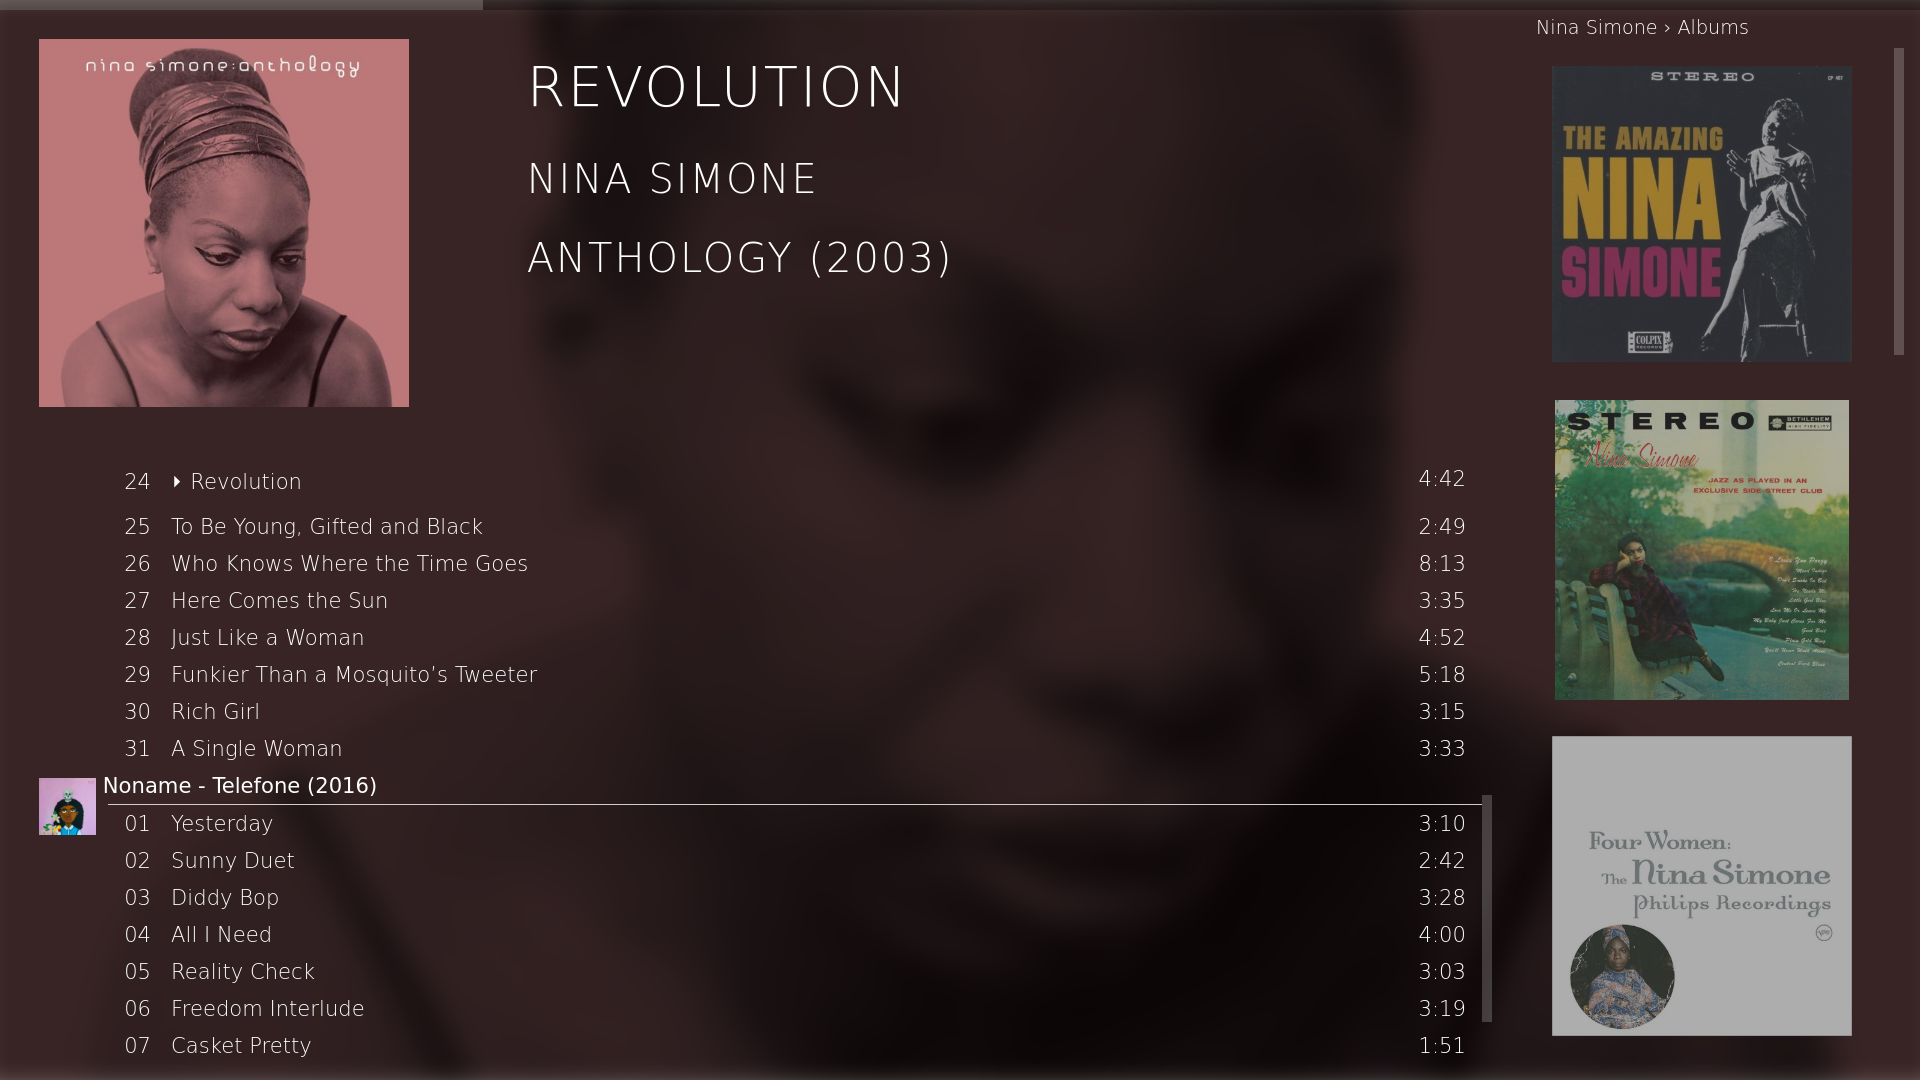
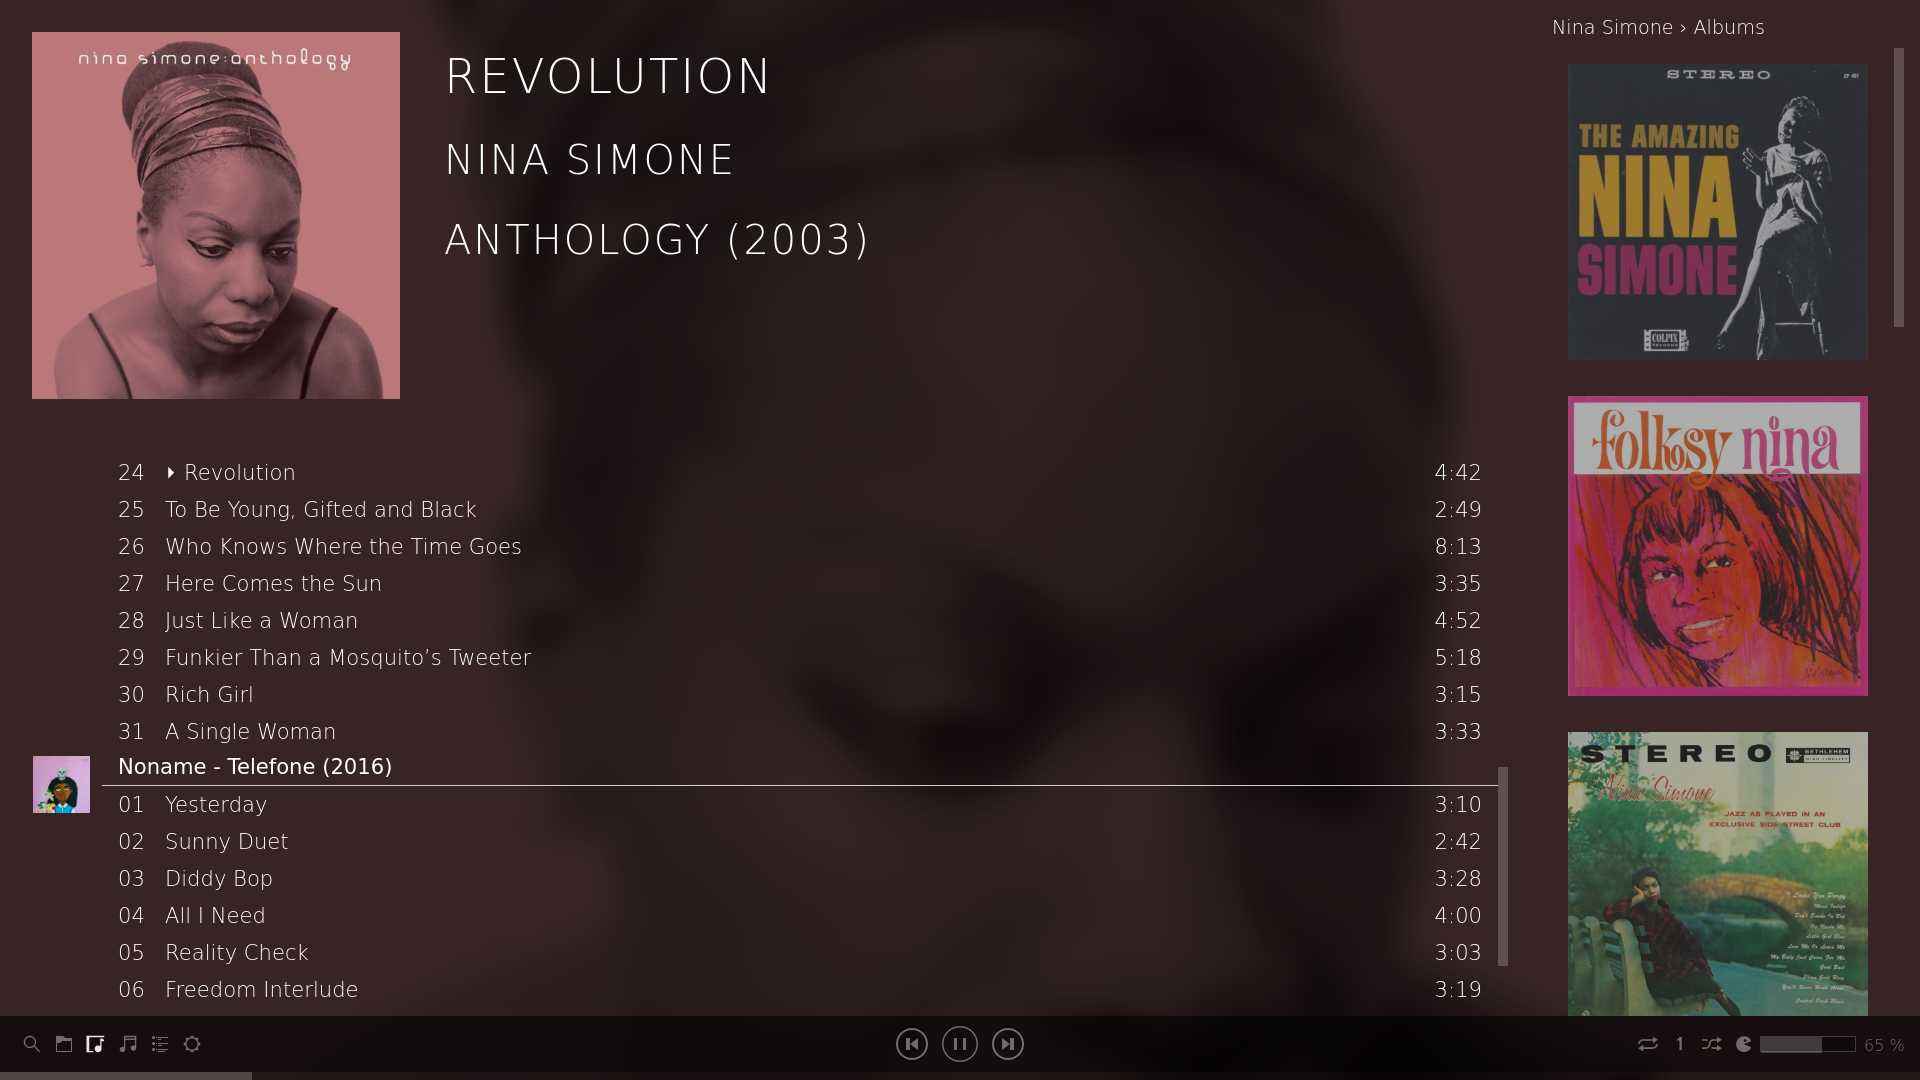
select and play songs in queue

diff --git a/src/client/app/shared/websocket/mpd.service.ts b/src/client/app/shared/websocket/mpd.service.ts
@@ -103,6 +103,7 @@ export class MpdService {
     | 'toggleRandom'
     | 'toggleSingle'
     | 'toggleRepeat'
+    | 'playTrack'
     ,
     args?: any[]) {
     if (!this.ws.closed) {
@@ -119,33 +120,36 @@ export class MpdService {
         case 'prevSong':
           this.ws.next('MPD_API_SET_PREV');
           break;
-          case 'addTrack':
-            this.ws.next('MPD_API_ADD_TRACK,' + args[0]);
-            break;
-          case 'addPlayTrack':
-            this.ws.next('MPD_API_ADD_PLAY_TRACK,' + args[0]);
-            break;
-          case 'addArtistAlbum':
-            this.ws.next('MPD_API_ADD_ARTIST_ALBUM,' + args[0] + ',' + args[1] + ',' + args[2]);
-            break;
-          case 'setVolume':
-            this.ws.next('MPD_API_SET_VOLUME,' + args[0]);
-            break;
-          case 'setSeek':
-            this.ws.next('MPD_API_SET_SEEK,' + args[0] + ',' + args[1]);
-            break;
-          case 'toggleConsume':
-            this.ws.next('MPD_API_TOGGLE_CONSUME,' + args[0]);
-            break;
-          case 'toggleRandom':
-            this.ws.next('MPD_API_TOGGLE_RANDOM,' + args[0]);
-            break;
-          case 'toggleSingle':
-            this.ws.next('MPD_API_TOGGLE_SINGLE,' + args[0]);
-            break;
-          case 'toggleRepeat':
-            this.ws.next('MPD_API_TOGGLE_REPEAT,' + args[0]);
-            break;
+        case 'addTrack':
+          this.ws.next('MPD_API_ADD_TRACK,' + args[0]);
+          break;
+        case 'addPlayTrack':
+          this.ws.next('MPD_API_ADD_PLAY_TRACK,' + args[0]);
+          break;
+        case 'addArtistAlbum':
+          this.ws.next('MPD_API_ADD_ARTIST_ALBUM,' + args[0] + ',' + args[1] + ',' + args[2]);
+          break;
+        case 'setVolume':
+          this.ws.next('MPD_API_SET_VOLUME,' + args[0]);
+          break;
+        case 'setSeek':
+          this.ws.next('MPD_API_SET_SEEK,' + args[0] + ',' + args[1]);
+          break;
+        case 'toggleConsume':
+          this.ws.next('MPD_API_TOGGLE_CONSUME,' + args[0]);
+          break;
+        case 'toggleRandom':
+          this.ws.next('MPD_API_TOGGLE_RANDOM,' + args[0]);
+          break;
+        case 'toggleSingle':
+          this.ws.next('MPD_API_TOGGLE_SINGLE,' + args[0]);
+          break;
+        case 'toggleRepeat':
+          this.ws.next('MPD_API_TOGGLE_REPEAT,' + args[0]);
+          break;
+        case 'playTrack':
+          this.ws.next('MPD_API_PLAY_TRACK,' + args[0]);
+          break;
         default:
           console.log('command not found:', command);
       }

diff --git a/src/client/app/shared/queue/queue.component.ts b/src/client/app/shared/queue/queue.component.ts
@@ -7,6 +7,7 @@ import { Song } from '../models/song.model';
 
 import { QueueService } from '../state/queue.service';
 import { CurrentSongService } from '../state/current-song.service';
+import { MpdService } from '../websocket/mpd.service';
 
 /**
  * This class represents the navigation bar component.
@@ -22,10 +23,11 @@ export class QueueComponent implements OnInit {
   queue: Song[];
   currentSong: Song;
   queueChanged = false;
+  selected: {id: number, pos: number} = {id: null, pos: null};
 
   private _song: ReplaySubject<Song>;
 
-  constructor(private _queue: QueueService, private _currentSong: CurrentSongService) {
+  constructor(private _queue: QueueService, private _currentSong: CurrentSongService, private _mpd: MpdService) {
     this._queue.getQueue().subscribe((songs: Song[]) => {
         this.queue = songs;
         this.queueChanged = true;
@@ -48,6 +50,20 @@ export class QueueComponent implements OnInit {
     setTimeout(() => {
       this.queueChanged = true;
     }, 900);
+  }
+
+  playTrack(song: Song) {
+    this._mpd.sendCommand('playTrack', [song.id]);
+  }
+
+  selectTrack(song: Song) {
+    if (this.selected.pos && this.selected.id === song.id && this.selected.pos === song.pos) {
+      this.selected.pos = null;
+      this.selected.id = null;
+    } else {
+      this.selected.pos = song.pos;
+      this.selected.id = song.id;
+    }
   }
 
   scroll(el: any) {

diff --git a/src/client/app/shared/queue/queue.component.html b/src/client/app/shared/queue/queue.component.html
@@ -1,11 +1,12 @@
-<div *ngFor="let song of queue; let i = index" class="song-album-row">
+<div *ngFor="let song of queue; let i = index" class="song-album-row" (dblclick)="playTrack(song)" (click)="selectTrack(song)">
   <div *ngIf="currentSong && song.pos === currentSong.pos" #target>{{ scroll(target) }}</div>
   <div *ngIf="i < 1 || (song.album !== queue[i-1].album || song.album_artist !== queue[i-1].album_artist)" class="album-row">
     <!-- <img [src]="song.file | getCoverUrl" onError="this.src='assets/placeholder.jpg';"> -->
     <sd-cover class="cover" [song]="song" [showControls]="false"></sd-cover>
     {{ song.album_artist }} - {{ song.album }} {{ song.date | year }}
   </div>
-  <div class="song-row" [ngClass]="{active: currentSong && song.pos === currentSong.pos}">
+  <div class="song-row" [ngClass]="{active: currentSong && song.pos === currentSong.pos, 'selected': song.pos === selected?.pos &&
+   song.id === selected?.id}">
     {{ str_pad_left(song.track, '0', 2) }} &nbsp;  <div class="play-indicator" *ngIf="currentSong && song.pos === currentSong.pos">&#9205;&nbsp;</div>{{ song.title }}
     <span class="song-duration">{{ song.duration | formatDuration }}</span>
   </div>

diff --git a/src/client/app/app.module.ts b/src/client/app/app.module.ts
@@ -11,12 +11,13 @@ import { SearchModule } from './search/search.module';
 import { HomeModule } from './home/home.module';
 import { LibraryModule } from './library/library.module';
 import { PlaylistsModule } from './playlists/playlists.module';
+import { SettingsModule } from './settings/settings.module';
 import { SharedModule } from './shared/shared.module';
 
 
 @NgModule({
   imports: [BrowserModule, HttpClientModule, AppRoutingModule, AboutModule, BrowseModule, SearchModule, HomeModule, LibraryModule,
-     PlaylistsModule, SharedModule.forRoot()],
+     PlaylistsModule, SettingsModule, SharedModule.forRoot()],
   declarations: [AppComponent],
   providers: [{
     provide: APP_BASE_HREF,

diff --git a/src/client/app/shared/controls-bar/controls-bar.component.html b/src/client/app/shared/controls-bar/controls-bar.component.html
@@ -14,6 +14,8 @@
       routerLink="/library"  routerLinkActive="selected"></div>
     <div class="btn btn-smaller" [ngClass]="{'selected': state?.repeat === 1}" inlineSVG="assets/svg/playlist.svg"
       routerLink="/playlists"  routerLinkActive="selected"></div>
+    <div class="btn btn-smaller" [ngClass]="{'selected': state?.repeat === 1}" inlineSVG="assets/svg/settings.svg"
+      routerLink="/settings"  routerLinkActive="selected"></div>
   </div>
   <div class="controls-center">
       <div inlineSVG="assets/svg/media-skip-backward.svg" (click)="prevSong()"></div>

diff --git a/src/client/app/shared/controls-bar/controls-bar.component.css b/src/client/app/shared/controls-bar/controls-bar.component.css
@@ -28,12 +28,13 @@
   position: fixed !important;
   margin: 0 !important;
   z-index: 2;
-  background-color: rgba(0, 0, 0, 0.3);
+  background-color: rgba(0, 0, 0, 0.6);
   display: grid;
   grid-template-columns: 1fr 9em 1fr;
   /*background-color: red;*/
   width: 100%;
-  height: 3em;
+  height: 3.5em;
+  padding-top: 0.25em;
 }
 
 .controls-center {
@@ -55,6 +56,10 @@
   height: 2em;
   fill: white;
   fill-opacity: 0.4;
+}
+
+.btn:focus {
+  outline: none;
 }
 
 .controls-left > div:hover, .controls-center > div:hover, .controls-right > div:hover {

diff --git a/src/client/app/settings/settings.component.css b/src/client/app/settings/settings.component.css
@@ -1,0 +1,25 @@
+:host {
+  display: block;
+  overflow: hidden;
+}
+
+h2 {
+  font-size: 20px;
+  font-weight: 500;
+  letter-spacing: 0.005em;
+  margin-bottom: 0;
+  margin-top: 0.83em;
+  color: white;
+}
+
+.wrapper {
+  position: absolute;
+  height: 100%;
+  width: 100%;
+  overflow: hidden;
+  top: 0;
+  display: grid;
+  grid-template-columns: 1fr 1fr 1fr;
+  grid-template-rows: 1fr 1fr;
+  grid-gap: 12px;
+}

diff --git a/src/client/app/settings/settings.module.ts b/src/client/app/settings/settings.module.ts
@@ -1,0 +1,11 @@
+import { NgModule } from '@angular/core';
+import { CommonModule } from '@angular/common';
+import { SettingsComponent } from './settings.component';
+import { SettingsRoutingModule } from './settings-routing.module';
+
+@NgModule({
+  imports: [CommonModule, SettingsRoutingModule],
+  declarations: [SettingsComponent],
+  exports: [SettingsComponent]
+})
+export class SettingsModule { }

diff --git a/src/client/app/settings/settings-routing.module.ts b/src/client/app/settings/settings-routing.module.ts
@@ -1,0 +1,13 @@
+import { NgModule } from '@angular/core';
+import { RouterModule } from '@angular/router';
+import { SettingsComponent } from './settings.component';
+
+@NgModule({
+  imports: [
+    RouterModule.forChild([
+      { path: 'settings', component: SettingsComponent }
+    ])
+  ],
+  exports: [RouterModule]
+})
+export class SettingsRoutingModule { }

diff --git a/src/client/app/shared/queue/queue.component.css b/src/client/app/shared/queue/queue.component.css
@@ -6,10 +6,11 @@
 
   overflow-y: auto;
   height: 100%;
+  margin-bottom: 0.4em;
 }
 
-.active {
-  /*background: rgba(255, 255, 255, 0.2);*/
+.selected {
+  background: rgba(255, 255, 255, 0.2);
 }
 
 .play-indicator {
@@ -20,6 +21,7 @@
 .song-album-row {
   padding-left: 70px;
   font-size: 1.2em;
+  cursor: pointer;
   /*border-bottom: 1px solid #eff0f1;*/
 }
 

diff --git a/src/client/app/settings/settings.component.ts b/src/client/app/settings/settings.component.ts
@@ -1,0 +1,12 @@
+import { Component } from '@angular/core';
+
+/**
+ * This class represents the lazy loaded BrowseComponent.
+ */
+@Component({
+  moduleId: module.id,
+  selector: 'sd-settings',
+  templateUrl: 'settings.component.html',
+  styleUrls: ['settings.component.css']
+})
+export class SettingsComponent { }

diff --git a/tools/config/project.config.ts b/tools/config/project.config.ts
@@ -49,7 +49,7 @@ export class ProjectConfig extends SeedConfig {
       packageMeta: {
        defaultExtension: 'js',
        main: 'lib/index',
-      }
+     }
 
     }];
 
